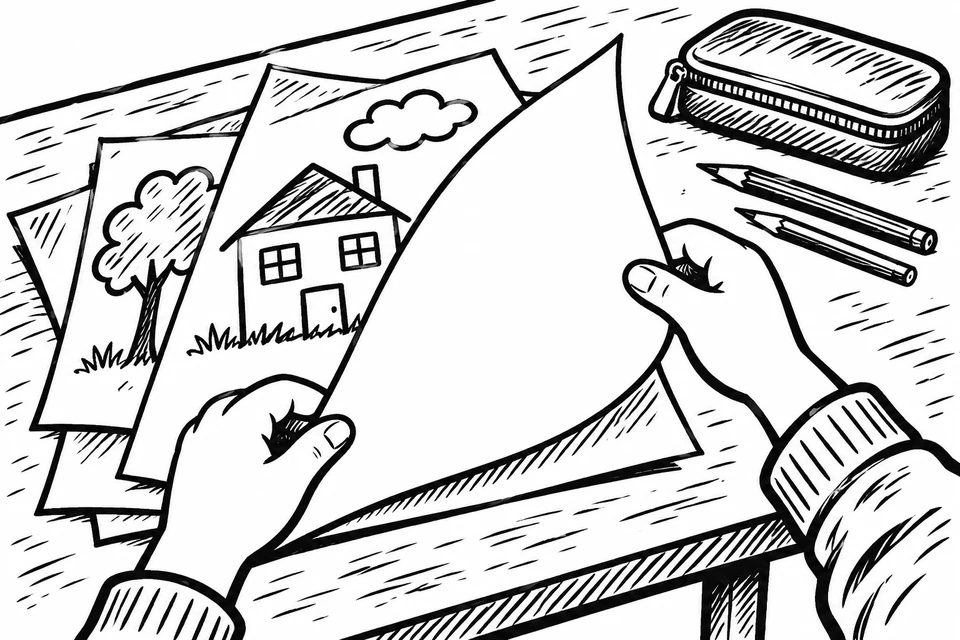
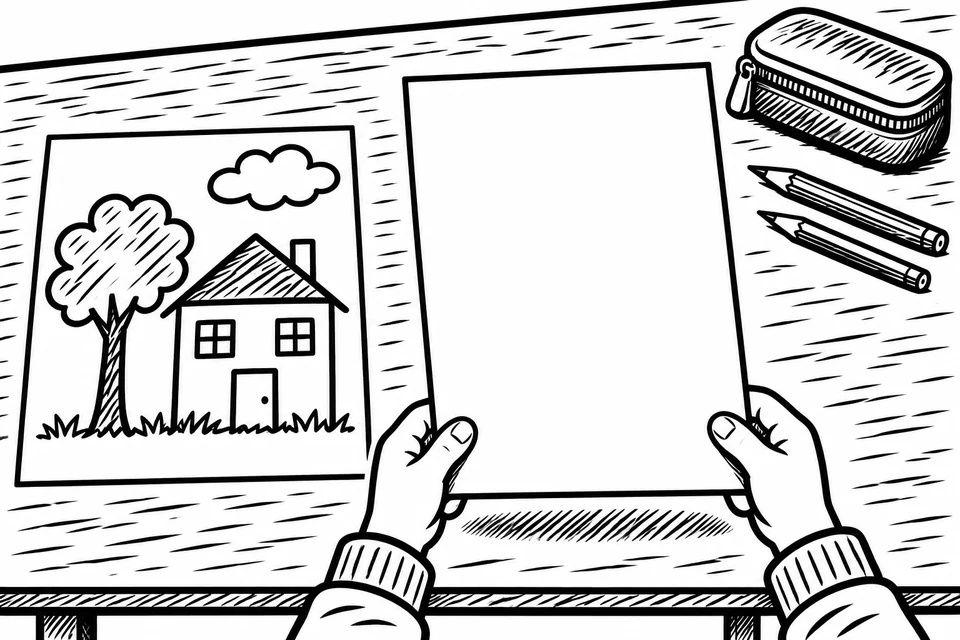
Clarify the two sheets in the L023 illustration

diff --git a/data/readings-4-es.js b/data/readings-4-es.js
@@ -164,7 +164,7 @@ export const readings4Es = [
         "src": "assets/readings/l023-hojas-que-quedan.webp",
         "width": 960,
         "height": 640,
-        "alt": "Dos manos dan la vuelta a un folio para mostrar su cara en blanco. Debajo hay hojas con dibujos de una casa y un árbol.",
+        "alt": "Un alumno sostiene un folio por las esquinas inferiores y muestra su cara en blanco. A su lado, sobre la mesa, hay otro folio con el dibujo de una casa y un árbol.",
         "afterParagraph": 2
       }
     ],

diff --git a/assets/readings/L023-illustracio.md b/assets/readings/L023-illustracio.md
@@ -2,6 +2,12 @@
 
 Imatge `l023-hojas-que-quedan.webp`, generada amb el generador integrat i optimitzada per al catàleg.
 
+La versió publicada mostra un full sencer amb la cara en blanc cap a l’observador i, al costat, un full amb un dibuix damunt la taula.
+
+```text
+Revise this landscape 3:2 black-and-white linocut for a fourth-grade reading worksheet, preserving the strong simple printmaking style and classroom desktop with pencil case and pencils. Recompose the paper and hands for perfect physical clarity. Overhead-oblique view. On the LEFT of the image, ONE single flat rectangular sheet lies on the desk and shows one child’s drawing of a house and a tree. No other sheets overlap it: the desk's wood grain stops at every paper edge, and the drawing and borders stop at the paper edges. On the RIGHT, a pupil holds a DIFFERENT sheet of loose paper completely off the desk, between two small hands entering from the bottom, holding its lower left and lower right corners with natural grips. We see this entire second sheet including the complete visible top and side edges and its lower edge running continuously between the hands. It is one complete, ordinary A4-proportioned rectangle shown in mild perspective with its entirely blank reverse facing the viewer. Show it almost flat, with no fold, no lifted flap, no curling corner and no drawn marks through it. Clearly separate both sheets with a strip of visible bare desktop between them, so neither paper silhouette overlaps the other. Show a small soft hatched shadow cast by the raised sheet onto the wooden desktop to show that it is being held in midair. Maintain crisp pure black ink and white paper with sparse carved hatching, clear silhouettes, no text, watermark, labels or panel divisions.
+```
+
 ```text
 A close, slightly overhead view of a primary-school classroom worktable. Two child-sized hands lift and turn one sheet from a loose stack of reused paper: the raised sheet presents a clean white reverse and a slight curl, and the sheets beneath show a few simple children's exhibition drawings, such as a house and a tree. At one edge of the table sit a closed pencil case and a couple of graphite pencils. Focus on the contrast of used sheets and blank paper. No completed notebook, clips, readable marks, or other figures. One original landscape 3:2 editorial linocut for a Spanish primary-school reading worksheet, for ages 9–10. Crisp black ink on clean white paper, hand-carved irregular contours, restrained hatched textures, strong recognizable silhouettes and plenty of white, legible at small print size. No lettering, border, grey wash, colour, branding, diagrams, or collage.
 ```
